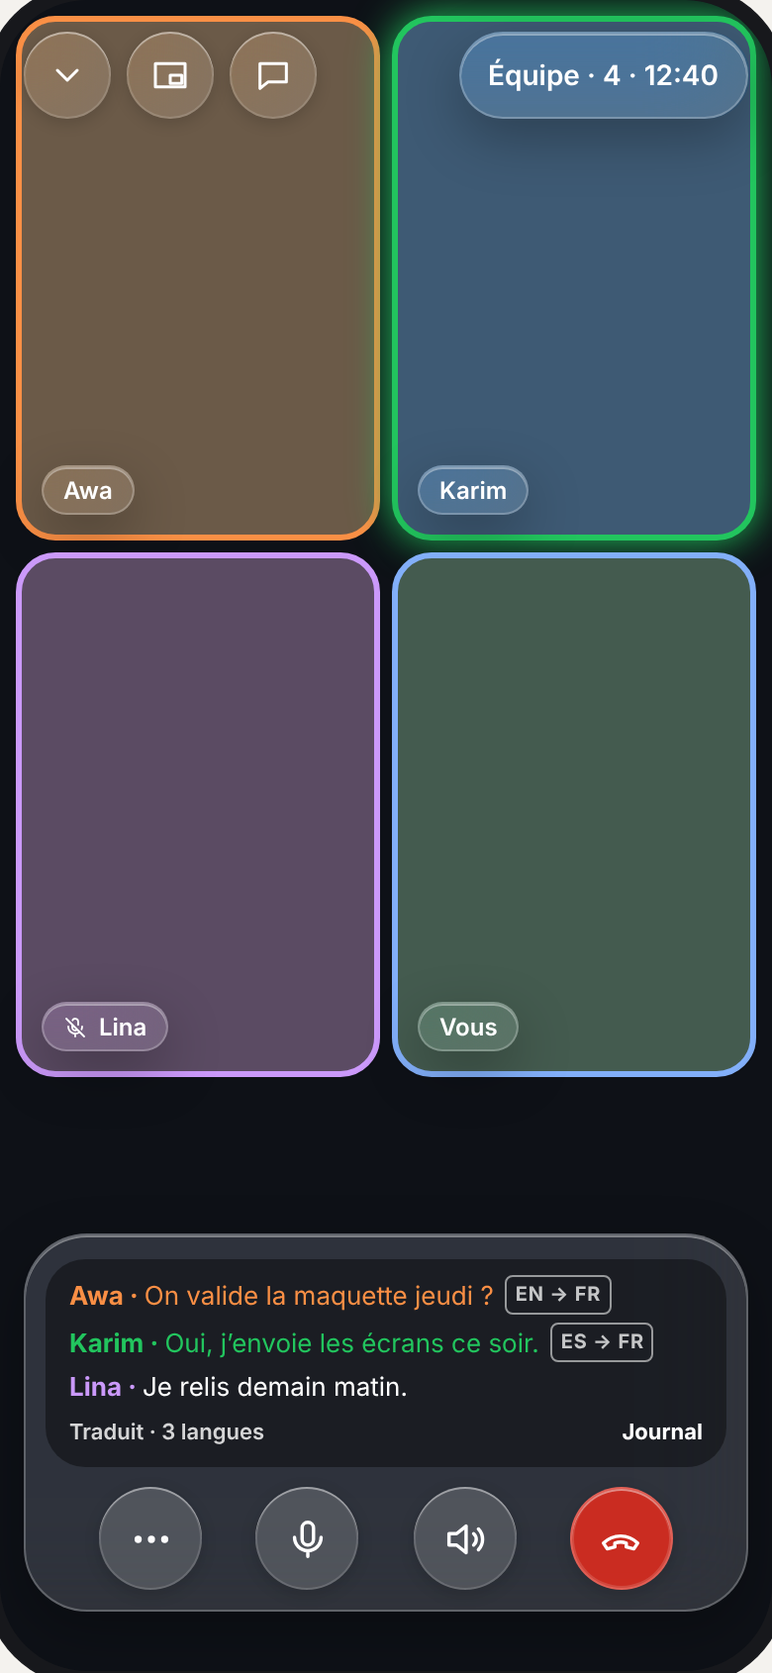
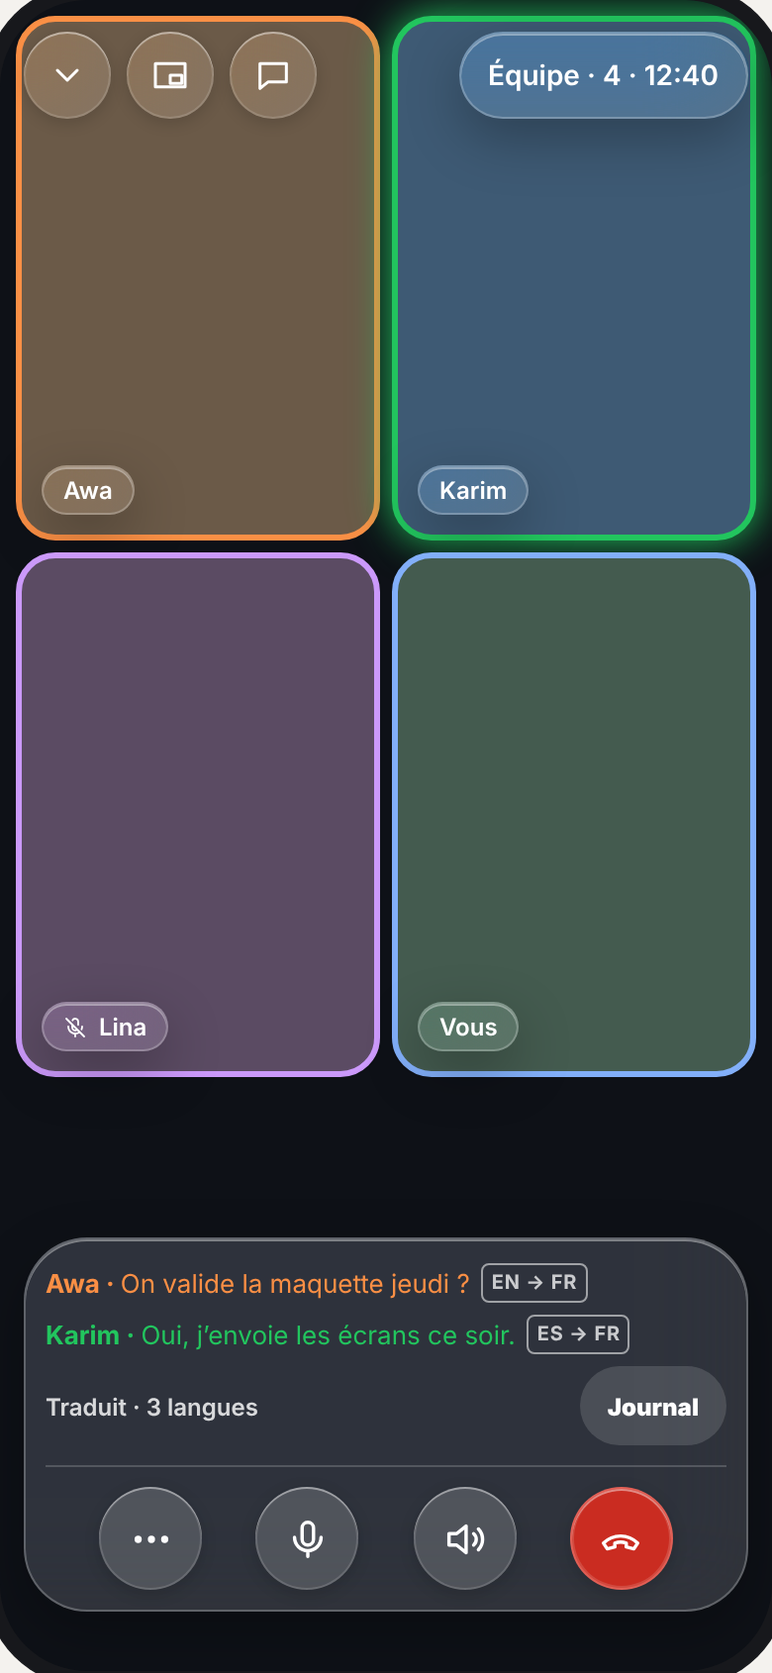
docs(appels): W1 « Journal » actif ferme la colonne, bande de groupe comme le duo, pilule large bornée à 560 px
Décisions porteur du 2026-11-13 inscrites dans la planche :
- #17932 (A) : colonne du journal ouverte, « Journal » (pied de la bande et
  rail) est un disque blanc plein ; le retoucher referme la colonne, sans ✕.
  W1 dessine le bouton actif ; loi 7 et section W1.
- #17933 (A) : en groupe, la bande des sous-titres a la grammaire du duo
  (à même le verre, deux phrases, filet, « Journal » en bouton) ; la carte
  sombre intérieure de groupFrame disparaît. P13 et W2 régénérées ; loi 5.
- #17935 (A) : une seule borne de 560 px pour toute pilule sur fenêtre
  large ; W2 passe de 600 à 560 px ; loi 1.
- #17931 et #17934 (A, fermées) : la colonne entre et repart par le bord de
  fin, la scène glissant vers son nouveau centre (loi 7, loi 17) ; un mode
  Effets ou Montage la range avec l'en-tête (loi 14).

Captures : seules P13, W1 et W2 changent ; les autres sont restaurées.

Refs #17932
Refs #17933
Refs #17935

Claude-Session: https://claude.ai/code/session_015SWXf7WvNYyQX5o6rHgc69

Changed region(s): [[0.0308, 0.7385, 0.9538, 0.8923]]

diff --git a/docs/product/appels-vue-finale/planche.html b/docs/product/appels-vue-finale/planche.html
@@ -49,6 +49,7 @@ h2{font-size:24px;margin:48px 0 4px}
 .jrin{display:flex;flex-direction:column;gap:10px;overflow:hidden}
 .capfoot{display:flex;justify-content:space-between;align-items:center;font-size:12px;font-weight:600;color:rgba(255,255,255,.82)}
 .capfoot b{height:40px;padding:0 14px;border-radius:20px;background:rgba(255,255,255,.14);display:flex;align-items:center;color:#fff}
+.capfoot b.on{background:rgba(255,255,255,.92);color:#0E1117;box-shadow:0 4px 14px rgba(0,0,0,.22)}
 .grid{position:absolute;display:grid;gap:6px}
 .tile{border-radius:20px;border:3px solid transparent;display:flex;align-items:flex-end;padding:10px;position:relative}
 .tile.speaking{box-shadow:0 0 0 2px rgba(255,255,255,.0),0 0 18px var(--glow,transparent)}
@@ -104,7 +105,7 @@ const tr=(l)=>!!(l.tag&&l.tag.includes('→'));
 const line=(l)=>{const col=C[l.who];const label=l.who==='moi'?'Moi':l.who[0].toUpperCase()+l.who.slice(1);
 return `<p style="${l.pending?'opacity:.65':''}"><b style="color:${col}">${label} · </b><span style="color:${tr(l)?col:'#fff'}" dir="auto">${l.text}</span>${l.tag?`<span class="tag">${l.tag}</span>`:''}${l.waiting?'<span class="wait" aria-label="traduction en cours"><i></i><i></i><i></i></span>':''}${l.orig?`<span class="orig">Original · ${l.orig}</span>`:''}</p>`};
 const inPill=(inner,o={})=>`<div class="glass ${o.light?'onlight':'deep'}" style="position:absolute;${o.width?`width:${o.width}px;left:${o.cx??'50%'};transform:translateX(-50%);`:`left:${o.left??10}px;right:${o.right??10}px;`}bottom:${o.bottom??30}px;border-radius:32px;padding:12px 12px 10px;display:flex;flex-direction:column;gap:10px">${inner}${o.bare?'':`<div style="height:1px;background:rgba(255,255,255,.18)"></div><div style="display:flex;justify-content:space-evenly">${pillBtns(false,o.micOff)}</div>`}</div>`;
-const capsIn=(lines,o={})=>`<section class="capsin" aria-label="Sous-titres de l'appel"><div class="lines" aria-live="polite">${lines.map(line).join('')}</div><div class="capfoot"><span>${o.foot??'EN → FR · toucher = original'}</span><b>Journal</b></div></section>`;
+const capsIn=(lines,o={})=>`<section class="capsin" aria-label="Sous-titres de l'appel"><div class="lines" aria-live="polite">${lines.map(line).join('')}</div><div class="capfoot"><span>${o.foot??'EN → FR · toucher = original'}</span>${o.journalOn?'<b class="on" role="button" aria-pressed="true" aria-label="Fermer le journal">Journal</b>':'<b>Journal</b>'}</div></section>`;
 const caps=(lines,o={})=>inPill(capsIn(lines,o),o);
 const capsOld=(lines,o={})=>`<section class="caps glass ${o.light?'onlight':'deep'}" aria-label="Sous-titres de l'appel" style="left:${o.left??10}px;right:${o.right??10}px;bottom:${o.bottom??116}px;${o.width?`width:${o.width}px;left:50%;right:auto;transform:translateX(-50%);`:''}"><div class="lines" aria-live="polite">${lines.map(line).join('')}</div><div class="capfoot"><span>${o.foot??'EN → FR · toucher = original'}</span><b>Journal</b></div></section>`;
 const tile=(who,bg,o={})=>{const label=who==='moi'?'Vous':who[0].toUpperCase()+who.slice(1);return `<div class="tile" style="background:${bg};border-color:${C[who]};${o.speaking?`box-shadow:0 0 20px ${C[who]};`:''}${o.span?`grid-column:${o.span};`:''}"><span class="name glass">${o.muted?ic('micoff',12,'#fff'):''}${label}</span></div>`};
@@ -117,7 +118,7 @@ const phone=(inner,bg)=>dev(390,844,inner,'',bg);
 const land=(inner,bg)=>dev(844,390,inner,'land',bg);
 const web=(inner,bg)=>dev(1280,800,inner,'web',bg);
 const groupTiles=(o={})=>`<div class="grid" style="left:8px;right:8px;top:${o.top??8}px;bottom:${o.bottom??8}px;grid-template-columns:repeat(${o.cols??2},minmax(0,1fr))">${tile('awa','#6B5A48',{speaking:o.speak==='awa'})}${tile('karim','#3E5A74',{speaking:o.speak==='karim'})}${tile('lina','#5B4B63',{muted:true})}${tile('moi','#445B4F')}</div>`;
-const groupFrame=(o={})=>`<div class="glass" style="position:absolute;left:12px;right:12px;bottom:30px;border-radius:32px;padding:12px 10px 10px;display:flex;flex-direction:column;gap:10px">${o.caps?`<section style="padding:8px 12px;border-radius:20px;background:rgba(0,0,0,.4);display:flex;flex-direction:column;gap:4px;font-size:14px;line-height:19px">${o.caps.map(line).join('')}<div class="capfoot" style="font-size:11px"><span>Traduit · 3 langues</span><span style="color:#fff;font-weight:700">Journal</span></div></section>`:''}${o.actions?[['Mon image',[['video','Caméra','on'],['flip','Retourner',''],['effects','Effets',''],['screen','Écran','']]],['L’appel',CALL_ACTIONS.map(([k,c])=>[k,c,k==='captions'&&o.capsOn?'on':''])]].map(([legend,items])=>`<div role="group" aria-label="${legend}" style="display:flex;flex-direction:column;gap:6px"><span style="font-size:10.5px;font-weight:700;letter-spacing:.06em;text-transform:uppercase;color:rgba(255,255,255,.7);padding-inline-start:4px">${legend}</span><div style="display:grid;grid-template-columns:repeat(${items.length},minmax(0,1fr));column-gap:2px">${items.map(([k,c,st])=>`<div style="display:flex;flex-direction:column;align-items:center;gap:4px;min-width:0">${B(k,c,st||'soft',items.length>4?40:44)}<span style="font-size:${items.length>4?9.5:10.5}px;max-width:100%;overflow:hidden;text-overflow:ellipsis;white-space:nowrap">${c}</span></div>`).join('')}</div></div>`).join('')+'<div style="height:1px;background:rgba(255,255,255,.18)"></div>':''}<div style="display:flex;justify-content:space-evenly">${pillBtns(!!o.actions)}</div></div>`;
+const groupFrame=(o={})=>`<div class="glass" style="position:absolute;left:12px;right:12px;bottom:30px;border-radius:32px;padding:12px 10px 10px;display:flex;flex-direction:column;gap:10px">${o.caps?capsIn(o.caps,{foot:'Traduit · 3 langues'})+'<div style="height:1px;background:rgba(255,255,255,.18)"></div>':''}${o.actions?[['Mon image',[['video','Caméra','on'],['flip','Retourner',''],['effects','Effets',''],['screen','Écran','']]],['L’appel',CALL_ACTIONS.map(([k,c])=>[k,c,k==='captions'&&o.capsOn?'on':''])]].map(([legend,items])=>`<div role="group" aria-label="${legend}" style="display:flex;flex-direction:column;gap:6px"><span style="font-size:10.5px;font-weight:700;letter-spacing:.06em;text-transform:uppercase;color:rgba(255,255,255,.7);padding-inline-start:4px">${legend}</span><div style="display:grid;grid-template-columns:repeat(${items.length},minmax(0,1fr));column-gap:2px">${items.map(([k,c,st])=>`<div style="display:flex;flex-direction:column;align-items:center;gap:4px;min-width:0">${B(k,c,st||'soft',items.length>4?40:44)}<span style="font-size:${items.length>4?9.5:10.5}px;max-width:100%;overflow:hidden;text-overflow:ellipsis;white-space:nowrap">${c}</span></div>`).join('')}</div></div>`).join('')+'<div style="height:1px;background:rgba(255,255,255,.18)"></div>':''}<div style="display:flex;justify-content:space-evenly">${pillBtns(!!o.actions)}</div></div>`;
 const sharedScreen=(x,y,w,h)=>`<div style="position:absolute;left:${x}px;top:${y}px;width:${w}px;height:${h}px;background:#F3F5F9;padding:${Math.round(h*.09)}px 20px 20px;display:flex;flex-direction:column;gap:12px;overflow:hidden"><div style="height:22px;width:45%;border-radius:6px;background:#C9D1DD"></div><div style="height:${Math.round(h*.18)}px;border-radius:14px;background:#7DA7D9"></div><div style="display:grid;grid-template-columns:repeat(2,1fr);gap:10px"><div style="height:${Math.round(h*.13)}px;border-radius:12px;background:#DDE3EC"></div><div style="border-radius:12px;background:#F2C98A"></div><div style="height:${Math.round(h*.13)}px;border-radius:12px;background:#BFD8C6"></div><div style="border-radius:12px;background:#DDE3EC"></div></div><div style="height:14px;width:65%;border-radius:4px;background:#D5DBE4"></div></div>`;
 const medal=(who,x,y,w=80,h=104)=>`<div class="selftile" style="left:${x}px;top:${y}px;width:${w}px;height:${h}px;border-color:${C[who]};background:#3E5A74">${who[0].toUpperCase()+who.slice(1)}</div>`;
 const T=(who,text,extra={})=>({who,text,...extra});
@@ -150,7 +151,7 @@ const S=[
 {h:'Groupe',lead:'La grille prend l’écran. Chaque vignette porte le liseré de la couleur de la personne, la mienne comprise ; qui parle s’illumine de sa couleur. En groupe, les actions montent dans la même pilule, qui s’agrandit.',b:[
 {id:'P11',t:'Groupe, repos',d:'Grille 2×2, noms en verre, micro barré sur la vignette de qui l’a coupé.',html:phone(groupTiles({speak:'awa'})+head('Équipe · 4 · 12:40')+pill(),'#0E1117')},
 {id:'P12',t:'Groupe, (…) touché',d:'Deux rangées légendées dans le même verre : mon image, puis l’appel ; la pilule dessous.',html:phone(groupTiles({speak:'karim'})+head('Équipe · 4 · 12:40')+groupFrame({actions:true}),'#0E1117')},
-{id:'P13',t:'Groupe, sous-titres',d:'Les sous-titres prennent le haut du cadre de verre ; une couleur par personne, la même que son liseré.',html:phone(groupTiles({bottom:300,speak:'karim'})+head('Équipe · 4 · 12:40')+groupFrame({caps:[T('awa','On valide la maquette jeudi ?',{tag:'EN → FR'}),T('karim','Oui, j’envoie les écrans ce soir.',{tag:'ES → FR'}),T('lina','Je relis demain matin.')]}),'#0E1117')},
+{id:'P13',t:'Groupe, sous-titres',d:'Une seule grammaire de bande, celle du duo (#17933) : les sous-titres à même le verre, au-dessus de la rangée, deux phrases, un filet, « Journal » en bouton ; une couleur par personne, la même que son liseré.',html:phone(groupTiles({bottom:300,speak:'karim'})+head('Équipe · 4 · 12:40')+groupFrame({caps:[T('awa','On valide la maquette jeudi ?',{tag:'EN → FR'}),T('karim','Oui, j’envoie les écrans ce soir.',{tag:'ES → FR'})]}),'#0E1117')},
 {id:'P14',t:'Une vignette à la une',d:'Toucher une vignette la met à la une ; les autres passent en bandeau. Retoucher rend la grille.',html:phone(`<div class="tile" style="position:absolute;left:8px;right:8px;top:8px;bottom:150px;background:#3E5A74;border-color:var(--karim);box-shadow:0 0 20px var(--karim)"><span class="name glass">Karim</span></div><div style="position:absolute;left:8px;right:8px;bottom:110px;height:0"></div>`+head('Équipe · 4 · 12:40')+`<div style="position:absolute;left:8px;right:8px;bottom:8px;height:134px;display:grid;grid-template-columns:repeat(3,1fr);gap:6px">${tile('awa','#6B5A48')}${tile('lina','#5B4B63',{muted:true})}${tile('moi','#445B4F')}</div>`+pill({bottom:160}),'#0E1117')}
 ]},
 {h:'Partage d’écran',lead:'L’écran partagé passe à la une tout seul. Sur un contenu clair, le verre s’assombrit pour garder le contraste.',b:[
@@ -198,8 +199,8 @@ const S=[
 {id:'A2',t:'Bulle d’appel, fil sombre',d:'La même, en sombre : la couleur vive telle quelle quand elle est déjà lisible. La bascule s’y inverse de la même façon : rien ne disparaît, la ligne dessous change seulement d’étiquette.',html:postCall('dark')}
 ]},
 {h:'Grand écran (web)',lead:'Sur un écran large, la scène reste centrée et le journal se pose en colonne de verre à droite au lieu de recouvrir l’image.',b:[
-{id:'W1',t:'Duo, journal en colonne',d:'Les sous-titres restent dans la pilule, centrée sous la scène ; sur un écran large, le journal complet se pose en colonne de verre à droite au lieu de recouvrir l’image.',html:web(`<div style="position:absolute;left:0;top:0;right:380px;bottom:0;overflow:hidden">${sceneLand().replace(/left:310px/,'left:330px')}</div>`+head('Awa · 04:12')+self({right:400,top:80,w:180,h:120})+caps([T('awa','On garde jeudi pour la démo ?',{tag:'EN → FR'}),T('moi','Oui, jeudi 10 h.')],{width:560,bottom:24,cx:'450px'})+journal(J,{left:'auto',right:12,top:76,bottom:24}).replace('left:auto','left:auto;width:356px'))},
-{id:'W2',t:'Groupe, grand écran',d:'Grille 2×2 centrée, sous-titres dans la pilule agrandie.',html:web(`<div class="grid" style="left:120px;right:120px;top:76px;bottom:250px;grid-template-columns:repeat(2,1fr)">${tile('awa','#6B5A48',{speaking:true})}${tile('karim','#3E5A74')}${tile('lina','#5B4B63',{muted:true})}${tile('moi','#445B4F')}</div>`+head('Équipe · 4 · 12:40')+groupFrame({caps:[T('awa','On valide la maquette jeudi ?',{tag:'EN → FR'}),T('karim','Oui, j’envoie les écrans ce soir.',{tag:'ES → FR'})]}).replace('left:12px;right:12px','left:340px;right:340px'),'#0E1117')}
+{id:'W1',t:'Duo, journal en colonne',d:'Les sous-titres restent dans la pilule, centrée sous la scène ; sur un écran large, le journal complet se pose en colonne de verre à droite au lieu de recouvrir l’image. Colonne ouverte, « Journal » (pied de la bande et rail) est un disque blanc plein ; le retoucher referme la colonne, qui ne porte aucun ✕ (#17932). Elle entre par le bord de fin et y repart, la scène glissant vers son nouveau centre (#17931) ; un mode (Effets, Montage) la range avec l’en-tête (#17934).',html:web(`<div style="position:absolute;left:0;top:0;right:380px;bottom:0;overflow:hidden">${sceneLand().replace(/left:310px/,'left:330px')}</div>`+head('Awa · 04:12')+self({right:400,top:80,w:180,h:120})+caps([T('awa','On garde jeudi pour la démo ?',{tag:'EN → FR'}),T('moi','Oui, jeudi 10 h.')],{width:560,bottom:24,cx:'450px',journalOn:true})+journal(J,{left:'auto',right:12,top:76,bottom:24}).replace('left:auto','left:auto;width:356px'))},
+{id:'W2',t:'Groupe, grand écran',d:'Grille 2×2 centrée, sous-titres dans la pilule agrandie, à même le verre comme en duo (#17933). La pilule a la borne de toute pilule sur fenêtre large : 560 px, duo comme groupe (#17935).',html:web(`<div class="grid" style="left:120px;right:120px;top:76px;bottom:250px;grid-template-columns:repeat(2,1fr)">${tile('awa','#6B5A48',{speaking:true})}${tile('karim','#3E5A74')}${tile('lina','#5B4B63',{muted:true})}${tile('moi','#445B4F')}</div>`+head('Équipe · 4 · 12:40')+groupFrame({caps:[T('awa','On valide la maquette jeudi ?',{tag:'EN → FR'}),T('karim','Oui, j’envoie les écrans ce soir.',{tag:'ES → FR'})]}).replace('left:12px;right:12px','left:360px;right:360px'),'#0E1117')}
 ]}
 ];
 document.getElementById('root').innerHTML=S.map(s=>`<h2>${s.h}</h2><p class="lead">${s.lead}</p><div class="row">${s.b.map(b=>`<figure class="board" id="${b.id}" style="margin:0"><span class="id">${b.id}</span><h3>${b.t}</h3>${b.html}${b.d?`<p>${b.d}</p>`:''}</figure>`).join('')}</div>`).join('');

diff --git a/docs/product/appels-vue-finale.md b/docs/product/appels-vue-finale.md
@@ -14,6 +14,7 @@
    - **Les boutons sont en Liquid Glass quand la version d'iOS le permet, en verre dessiné sinon** (directive porteur du 2026-11-09, #17323). Elle supplante « un bouton inactif n'a pas de fond » et « jamais de verre posé sur du verre » ; les captures montrent désormais le disque de verre de chaque bouton.
    - Le Liquid Glass l'emporte : sur iOS 26 et plus, chaque bouton est un verre interactif, avec l'effet au toucher des boutons de l'en-tête de conversation (`ConversationHeaderGlassGlyph`), et les verres voisins se composent dans un même conteneur.
    - Sur iOS 16 à 25, le bouton est le verre dessiné de `adaptiveLiquidGlass`. Android transpose par `MeeshyGlassSurface`.
+   - **Sur fenêtre large, toute pilule a UNE borne : 560 px, centrée sous la scène, en duo comme en groupe** (décision porteur du 2026-11-13, #17935 ; W1, W2). Elle vaut pour la pilule agrandie qui porte les sous-titres, le journal ou les deux rangées du groupe, comme pour la bande du paysage (L3).
    - **La capsule de droite de l'en-tête** (décision porteur du 2026-11-09, #17341) : en vidéo, elle porte le nom que j'ai donné à la personne (sinon son nom d'affichage) et la durée, « Awa · 04:12 » ; l'indicateur réseau n'y apparaît que si la connexion se dégrade. En audio, le nom et la durée sont déjà au centre sous l'avatar : la capsule n'existe que pour l'indicateur réseau, et seulement s'il se dégrade. En groupe, elle porte le nom du groupe, le nombre et la durée.
 2. **(…) fait sortir les actions, et les range.**
    - En duo, deux rails verticaux sortent vers les bords. **Gauche = mon image** : Caméra, Retourner, Effets, Écran ; caméra éteinte, seulement Caméra et Écran, car un contrôle sans effet n'est pas posé (porteur, 2026-11-10). **Droite = l'appel** : Sous-titres, Enregistrer, Ajouter, Journal, Réagir, Capture.
@@ -43,6 +44,7 @@
    - Ma phrase n'est jamais traduite pour moi.
    - La ligne servie descend le **Prisme** du lecteur (`resolvePrismTranslation` / `served`), jamais `translations[0]`.
    - **Les sous-titres vivent DANS la pilule**, au-dessus de sa rangée de base, dans le même verre, en duo comme en groupe (décision porteur du 2026-11-09, #17343). Ouvrir les actions (…) les range ; refermer les actions les rend.
+   - **UNE seule grammaire de bande, en duo comme en groupe** (décision porteur du 2026-11-13, #17933 ; P3, P13, W1, W2) : les phrases à même le verre, DEUX phrases, un filet qui les sépare de la rangée, et « Journal » en bouton au pied de la bande. Il n'y a plus de carte sombre intérieure en groupe, ni de « Journal » en simple texte.
    - **La bande et le journal rangent les phrases dans le MÊME ordre : par début de phrase** (l'heure dans l'appel où la phrase a commencé), la plus ancienne en haut, la plus récente en bas, contre la rangée. Une traduction ou une version finale qui arrive plus tard met la ligne à jour sur place, sans la déplacer : en P3 et P4, la phrase d'Awa reste au-dessus de ma réponse même si sa traduction arrive après (compte rendu famille 1, #17329).
 6. **Toucher une phrase montre son original dessous** ; la retoucher le replie. « Journal » ouvre tout l'appel, DANS la pilule, à la place des sous-titres (#17343).
    - **En appel audio, le journal ouvert RÉDUIT l'avatar** (décision porteur du 2026-11-11, #17529 ; P9b). L'avatar passe de 120 pt à ~56 pt et monte en un en-tête compact, sous l'en-tête de l'appel : l'avatar à gauche, et à côté, sur la même rangée, le nom puis la durée (iOS `CallCompactAudioHeader`). Le journal prend la place libérée ; la personne ne disparaît jamais derrière lui, et son anneau de parole suit l'avatar à sa nouvelle taille.
@@ -53,6 +55,10 @@
    - L'original : pendant l'appel, il se déplie sous la phrase qu'on touche, comme dans la bande ; après l'appel, il est sous chaque traduction (décision porteur du 2026-11-09, #17340).
    - Pendant l'appel, toucher une phrase déplie son original sous elle seule (#17340). La bascule Traduit · Original de la tête du journal fait passer TOUT le journal dans l'autre texte ; elle ne touche pas la bande des sous-titres, qui reste dans la langue du lecteur (Prisme). Après l'appel, l'original se lit sous chaque traduction, et la bascule y inverse les deux lignes (#17862, ci-dessous).
    - Pendant l'appel, il s'ouvre dans la pilule, au-dessus de la rangée de base, et y défile ; ouvrir les actions (…) le range (#17343). Ma vignette garde sa place, en haut à droite, pendant qu'il est ouvert (porteur, 2026-11-10 ; P6). Sur un écran large (web), il se pose en colonne à droite (W1) ; cette colonne ne masque rien et reste ouverte quand on ouvre (…) (porteur, 2026-11-10).
+   - **La colonne du journal sur grand écran (W1)** :
+     - Colonne ouverte, le bouton « Journal », au pied de la bande comme dans le rail, est ACTIF : un disque blanc plein à icône et texte sombres (loi 1). Le retoucher referme la colonne. La colonne ne porte aucun ✕ : sa tête n'a que « Journal » et la bascule Traduit · Original, comme `CallJournalPanel` sur iOS (décision porteur du 2026-11-13, #17932).
+     - Elle entre par le bord de FIN de la fenêtre (le bord gauche en droite à gauche) et y repart à la fermeture ; la scène glisse vers son nouveau centre pendant ce temps (décision porteur du 2026-11-13, #17931). C'est l'exception de la loi 17 pour la colonne : elle ne naît pas de la barre du bas.
+     - Un mode (Effets, Montage) la range avec l'en-tête ; elle revient à la sortie du mode (décision porteur du 2026-11-13, #17934 ; loi 14).
    - Rien n'est tronqué, et une ligne dont la traduction arrive après la fin de la phrase est mise à jour sur place, pas dupliquée. Les règles de fusion sont web `mergeCaption`, iOS `CallTranscriptMergeRules`, Android `CallLiveJournal.merged`.
    - Après l'appel, il se déplie sous la bulle d'appel du fil et dans le détail de l'historique.
    - **Après l'appel, la bascule INVERSE les deux lignes, sur tout l'appel** (décision porteur du 2026-11-13, #17862). C'est la même bascule Traduit · Original que celle du journal vivant (P6).
@@ -106,7 +112,7 @@
       - **Au plus trois couches d'effet s'empilent** (un cadre, un filtre, une déformation…). (+) en ajoute une par-dessus les autres ; avec trois couches, (+) n'en ajoute plus de quatrième, le dit à son étiquette d'accessibilité et garde son appui long.
       - **Un appui long sur (+) montre la liste des effets appliqués**, de la couche du dessus à celle du dessous, chacun avec de quoi l'annuler. En annuler un retire cette couche seule, les autres gardent leur ordre, et la liste se referme : la barre revient à son menu de base, comme après tout choix. Le lecteur d'écran offre la même liste par une action nommée sur (+), sans appui long.
       - La pile est une loi PURE, la même sur les trois plateformes (ajouter, retirer, plafond de trois, ordre) : TS, Swift et Kotlin en sont des miroirs.
-    - Un mode libère l'écran : l'en-tête se masque (#8578, confirmé par le porteur le 2026-11-09, #17344).
+    - Un mode libère l'écran : l'en-tête se masque (#8578, confirmé par le porteur le 2026-11-09, #17344). Sur grand écran, la colonne du journal (W1) se range avec lui et revient à la sortie du mode : la scène est entière pour juger l'effet (décision porteur du 2026-11-13, #17934).
 15. **À la une.**
     - Toucher une vignette la met à la une, choix local jamais imposé. Si les contrôles sont cachés, le toucher les rend d'abord.
     - La vignette à la une n'a pas de badge : une capsule en haut à droite offre « Revenir à la grille » et « Plein écran ».
@@ -120,6 +126,7 @@
     - Un élément arrive depuis l'endroit d'où il vient, et repart vers lui.
     - Les rails latéraux entrent par le bord de l'écran et sortent par lui, vers l'extérieur.
     - Ce qui s'ouvre depuis la barre du bas (options, sous-titres, journal, rangées d'actions en groupe) s'ouvre par morphisme : la barre s'allonge et grandit, puis reprend sa forme.
+    - La colonne du journal sur grand écran (W1) vient, elle, du bord de fin de la fenêtre et y repart, la scène glissant vers son nouveau centre (#17931, loi 7).
     - Une rangée qui défile (puces, bandeau de vignettes) n'est jamais coupée net : elle s'efface en fondu à ses deux bords (#17409).
     - Tout ce qui se pose par-dessus l'image suit la même logique. Seule exception : Effets, qui emprunte au composer (loi 9).
     - Dans Effets, les réglages (P8b) arrivent depuis la barre : la bande de looks et les puces partent en fondu, le panneau de verre monte depuis la barre en fondu (≈ 200 ms), la barre se resserre par morphisme ; retoucher « Réglages » les rend par le chemin inverse (loi 14).
@@ -189,7 +196,7 @@ En audio, la personne est au centre et son anneau prend sa couleur, avec son hal
 
 ### Groupe
 
-La grille prend l'écran. Chaque vignette porte le liseré de sa couleur, la mienne comprise, et qui parle s'illumine de sa couleur. Toucher une vignette la met à la une ; la retoucher rend la grille.
+La grille prend l'écran. Chaque vignette porte le liseré de sa couleur, la mienne comprise, et qui parle s'illumine de sa couleur. Toucher une vignette la met à la une ; la retoucher rend la grille. La bande des sous-titres a la grammaire du duo : à même le verre, deux phrases, un filet, « Journal » en bouton (loi 5, #17933).
 
 | P11 · Repos | P12 · (…) touché | P13 · Sous-titres dans le cadre | P14 · À la une |
 |---|---|---|---|
@@ -228,6 +235,9 @@ Les captures A1 et A2 montrent l'état par défaut : la traduction en tête, « 
 ### Grand écran (web)
 
 Sur un écran large, la scène reste centrée et le journal se pose en colonne de verre à droite, au lieu de recouvrir l'image.
+
+- **W1** : colonne ouverte, « Journal » (pied de la bande et rail) est un disque blanc plein ; le retoucher referme la colonne, qui ne porte aucun ✕ (#17932). La colonne entre par le bord de fin et y repart, la scène glissant vers son nouveau centre (#17931) ; en mode Effets ou Montage, elle se range avec l'en-tête (#17934). Loi 7.
+- **W2** : la bande des sous-titres est celle du duo, à même le verre, deux phrases, « Journal » en bouton (#17933) ; la pilule est bornée à 560 px, comme en duo (#17935). Lois 1 et 5.
 
 | W1 · Duo, journal en colonne |
 |---|
